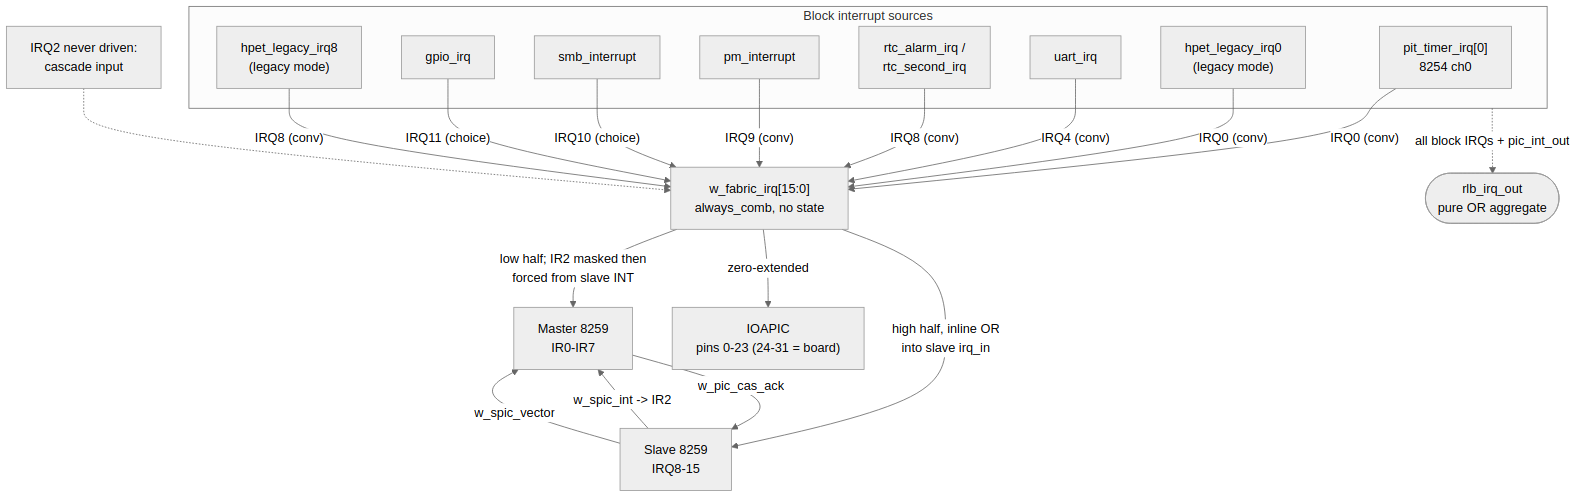
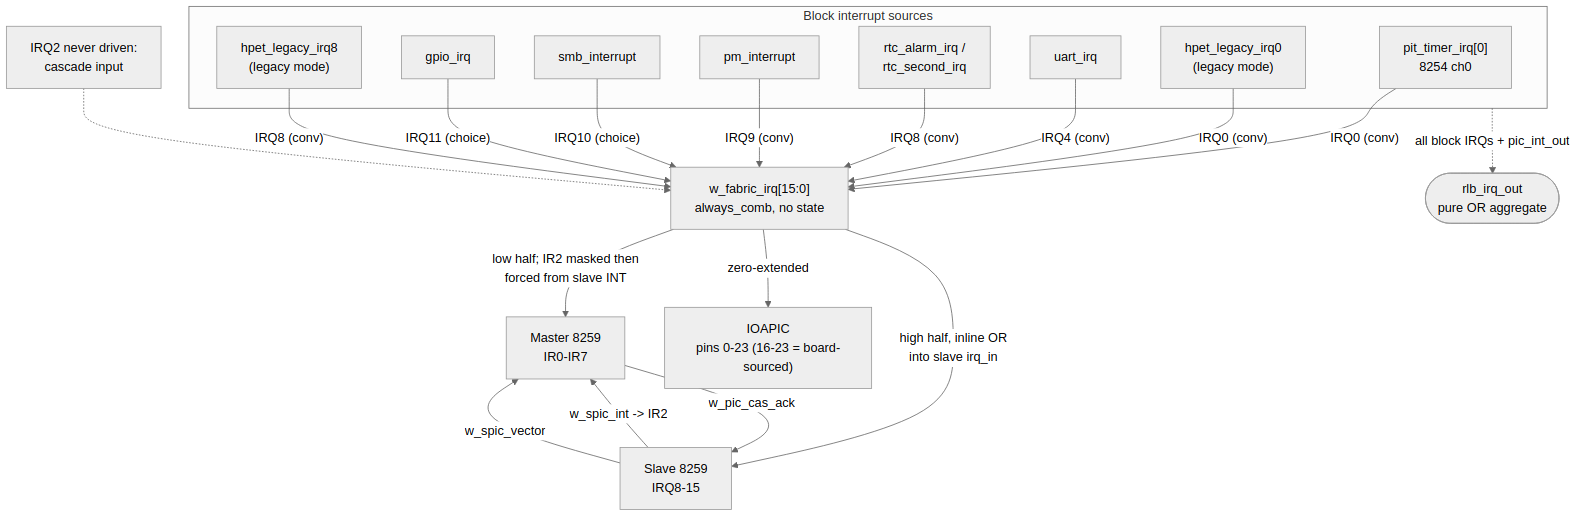
docs(rlb_top_mas): review minors -- proof pointer, fabric counts, diagram label
- ch04_01 and the index now point at the executable transcription
  (dv/host/rlb_bringup_programs.py + test_rlb_top_bringup.py) and say why
  it exists: it caught this chapter's two wrong register offsets.
- The fabric page says seven sources on six lines (PIT ch0 and the HPET
  legacy pair share IRQ0) instead of 'six blocks'.
- The interrupt-fabric diagram labels the IOAPIC 'pins 0-23 (16-23 =
  board-sourced)' -- 24-31 do not exist at IOAPIC_NUM_IRQS=24; png
  re-rendered.
- ch04_03 Step 5 points at initialization step 3 for the 8259s (step 4 is
  the IOAPIC).

diff --git a/projects/components/retro_legacy_blocks/docs/rlb_top_mas/ch04_programming/03_power_management.md b/projects/components/retro_legacy_blocks/docs/rlb_top_mas/ch04_programming/03_power_management.md
@@ -162,10 +162,10 @@ sleep through such an event checks the status registers after entry.
 convention — and therefore reaches the slave 8259 (IR1) and IOAPIC pin 9
 like any other routed source (see
 [Interrupt Pin Reference](../ch03_interfaces/03_interrupt_interfaces.md)).
-The SCI handler is just a legacy interrupt handler: program the
-controllers during
-[initialization](01_initialization.md) step 4 to deliver IRQ9, and the
-PM block needs no special routing. GPE events additionally depend on
+The SCI handler is just a legacy interrupt handler: program the controllers
+during [initialization](01_initialization.md) — step 3 for the 8259s, step 4
+for the IOAPIC — to deliver IRQ9, and the PM block needs no special routing.
+GPE events additionally depend on
 `ACPI_INT_ENABLE.gpe_int_enable` and the GPE per-source enables before
 they contribute to the pin.
 

diff --git a/projects/components/retro_legacy_blocks/docs/rlb_top_mas/ch04_programming/01_initialization.md b/projects/components/retro_legacy_blocks/docs/rlb_top_mas/ch04_programming/01_initialization.md
@@ -34,6 +34,15 @@ belongs to that block's specification.
 The sequences below are the ones the integration test suite executes, which is
 why they are known to work rather than merely plausible.
 
+There is also an executable transcription of this chapter:
+`dv/host/rlb_bringup_programs.py` runs steps 1-4 against any
+`write32`/`read32` bus (a board port binds the same program to a UART
+bridge), and `dv/tests/test_rlb_top_bringup.py` proves the book sufficient
+by driving bring-up through that program alone — it never calls the DV
+helpers this chapter was transcribed from. Edit this chapter, then run that
+test: it caught two wrong register offsets in this chapter's first edition
+(`IOWIN`, `PIC_STATUS`), which is exactly the drift it exists to catch.
+
 ## Address Helper
 
 Every register access in this chapter goes through a window. One helper keeps the

diff --git a/projects/components/retro_legacy_blocks/docs/rlb_top_mas/rlb_top_mas_index.md b/projects/components/retro_legacy_blocks/docs/rlb_top_mas/rlb_top_mas_index.md
@@ -160,6 +160,10 @@ make clean-all && make run-rlb_top-full
 7. Each of those blocks reaches its IOAPIC pin and is delivered
 8. The boot-interrupt reroute path reaches the 8259
 9. Coincident asserts at two, three and four sources, spanning both PICs
+10. The book alone can bring the subsystem up: `dv/host/rlb_bringup_programs.py`
+    driven by [Chapter 4.1](ch04_programming/01_initialization.md), proven by
+    `dv/tests/test_rlb_top_bringup.py` — which never calls the DV helpers the
+    chapter was transcribed from
 
 ### Deliberate scope boundaries
 

diff --git a/projects/components/retro_legacy_blocks/docs/rlb_top_mas/ch02_blocks/02_interrupt_fabric.md b/projects/components/retro_legacy_blocks/docs/rlb_top_mas/ch02_blocks/02_interrupt_fabric.md
@@ -41,7 +41,8 @@ pins back in.
 
 ## The Routing Table
 
-Six blocks source interrupts into the fabric. The six driven lines:
+Seven block-level sources drive the fabric's six lines — PIT channel 0 and
+HPET's legacy pair both land on IRQ0. The six driven lines:
 
 | Line | Driver(s) | Origin |
 | --- | --- | --- |
